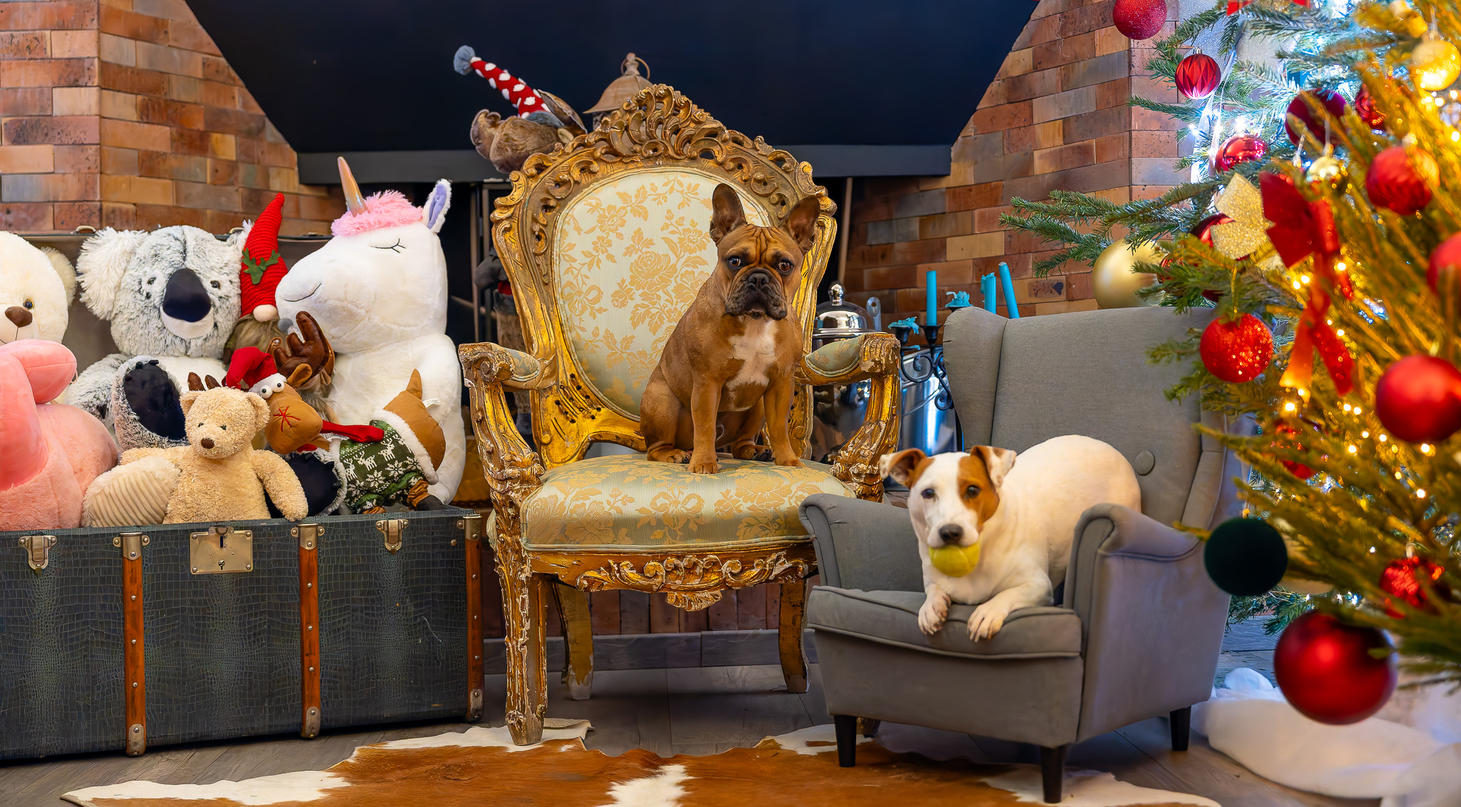
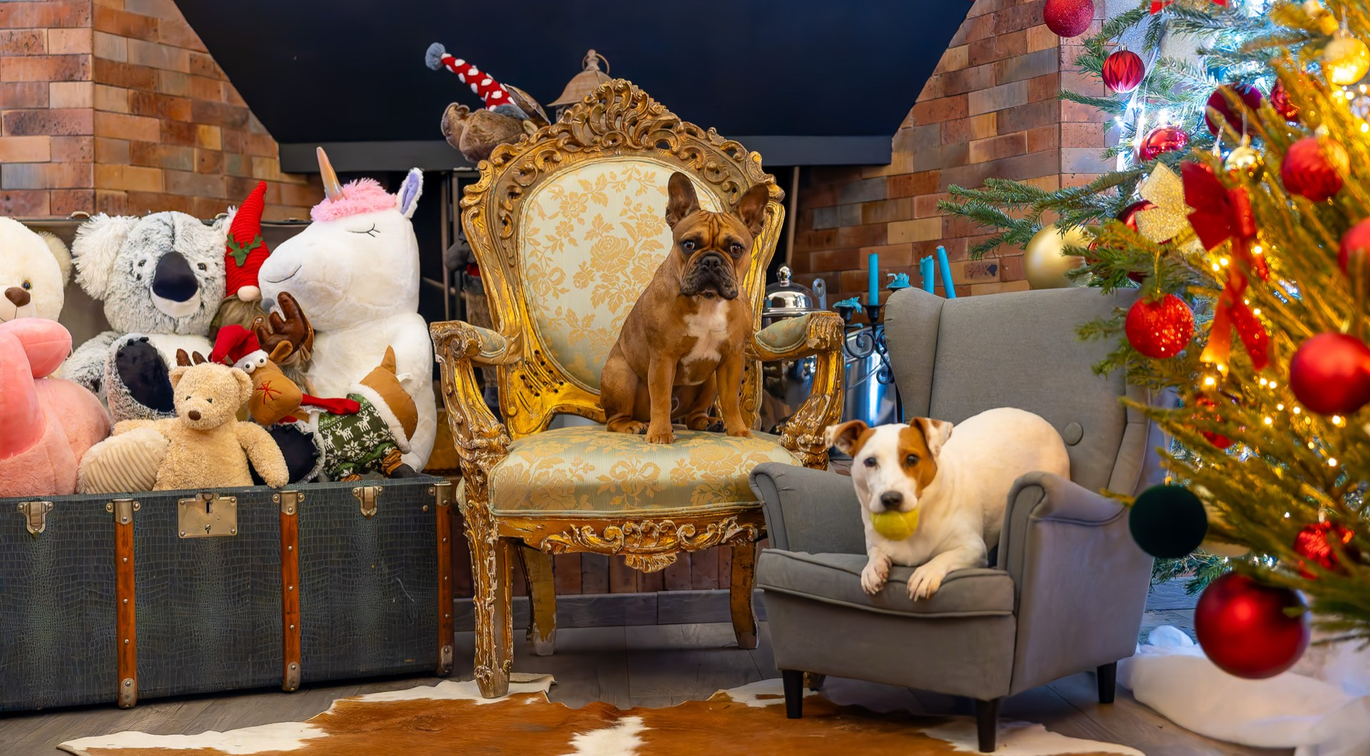
fix(saint-sylvestre): voile sombre sur la photo de fond, image allégée

diff --git a/phone/reveillon-saint-sylvestre.html b/phone/reveillon-saint-sylvestre.html
@@ -32,7 +32,7 @@ if(typeof Muse == "undefined") window.Muse = {}; window.Muse.assets = {"required
     .d9m-tab{display:block;width:277px;min-height:45px;line-height:45px;border:1px solid #EBB638;border-radius:29px;background-color:#EBB638;text-align:center;font-size:18px;color:#FFFFFF;font-family:'__SF Pro Display_5',-apple-system,Helvetica,Arial,sans-serif;font-weight:400;margin-left:20px;margin-top:10px;position:relative;z-index:330;text-decoration:none;}
     .d9m-tab p,.d9m-tab:visited p{color:#FFFFFF;}
     .d9m-tab.on{border-color:#FFFFFF;}
-    #u5153{background-image:url("../images/noel-ledix9-mobile.jpg") !important;background-position:center center !important;}
+    #u5153{background-image:linear-gradient(rgba(0,0,0,.4),rgba(0,0,0,.4)),url("../images/noel-ledix9-mobile.jpg") !important;background-position:center center !important;}
 </style>
     <!--HTML Widget code-->
   

diff --git a/reveillon-saint-sylvestre.html b/reveillon-saint-sylvestre.html
@@ -216,7 +216,7 @@ if(document.readyState==='complete'){setTimeout(l,300);}else{window.addEventList
     .d9-tab p,.d9-tab:visited p{color:#FFFFFF;}
     .d9-tab.on{border-color:#FFFFFF;}
     #u3054-4{top:668px !important;}
-    #u3107{background-image:url("images/noel-ledix9.jpg") !important;background-position:center center !important;}
+    #u3107{background-image:linear-gradient(rgba(0,0,0,.4),rgba(0,0,0,.4)),url("images/noel-ledix9.jpg") !important;background-position:center center !important;}
 </style>
  
 
